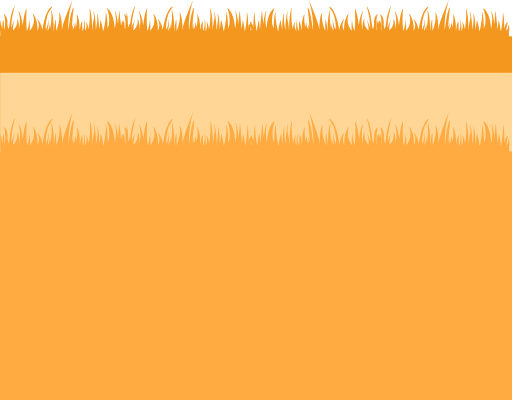
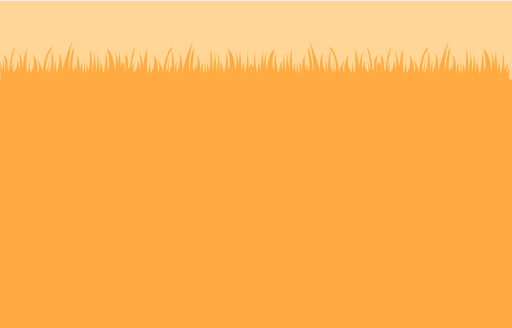
fixed ground for fall assets

diff --git a/src/constants/colors.ts b/src/constants/colors.ts
@@ -7,14 +7,9 @@ import fallSun from '../img/fall/Sun.svg';
 import ground from '../img/ground.png';
 import darkGround from '../img/dark/ground.png';
 import fallGround from '../img/fall/ground.png';
-// import fallGround from '../img/fall/trial2.png';
-// import fallGround from '../img/fall/trial1.svg';
 import barn from '../img/Barn.svg';
 import darkBarn from '../img/dark/Barn.svg';
-import fallBarn from '../img/fall/barn-fall.svg';
-import silo from '../img/Silo.svg';
-import darkSilo from '../img/dark/Silo.svg';
-import fallSilo from '../img/fall/Silo.svg';
+import fallBarn from '../img/fall/Barn.svg';
 import bean from '../img/bean-bold-logo.svg';
 import beanWhite from '../img/bean-white-logo.svg';
 
@@ -31,6 +26,9 @@ const normalTheme = {
     linkColor: '#3B3B3B',
     footer: '#000000',
     voteSelect: '#DAF2FF',
+    activeSection: 'rgb(14, 136, 55)',
+    navSelection: '#61dafb38',
+    menuColor: 'white',
     module: {
         foreground: '#FFFFFF',
         background: '#F5FAFF',
@@ -44,9 +42,9 @@ const normalTheme = {
     groundSize: 'contain',
     groundHeight: '53px',
     groundItemHeight: '51px',
+    groundGrass: 'none',
     footerPadding: '18px 15px 0 0',
     barn: barn,
-    silo: silo,
     bean: bean,
 };
 
@@ -70,6 +68,7 @@ export const spookyTheme = {
     linkColor: '#9F9F9F',
     footer: '#FF7F00',
     voteSelect: '#091F35',
+    // menuColor: '#FFDDAD',
     module: {
         foreground: '#B4DCEA',
         background: '#96CEE0',
@@ -84,7 +83,6 @@ export const spookyTheme = {
     groundHeight: '82px',
     footerPadding: '28px 15px 0 0',
     barn: darkBarn,
-    silo: darkSilo,
     bean: beanWhite,
 };
 
@@ -101,6 +99,9 @@ export const fallTheme = {
     footer: '#BE4417',
     // voteSelect: '#C29B71',
     voteSelect: '#FFDE97',
+    activeSection: '#BE4417',
+    navSelection: '#FFF3D1',
+    menuColor: '#FFDDAD',
     module: {
         foreground: '#FFE5AD',
         background: '#FFF3D1',
@@ -113,9 +114,9 @@ export const fallTheme = {
     ground: fallGround,
     groundSize: 'contain',
     groundHeight: '82px',
-    groundItemHeight: '69px',
+    groundItemHeight: '81px',
+    groundGrass: 'flex',
     barn: fallBarn,
-    silo: fallSilo,
     bean: beanWhite,
 };
 

diff --git a/src/components/About/Footer.tsx b/src/components/About/Footer.tsx
@@ -14,11 +14,14 @@ import { ReactComponent as OpenSeaIcon } from '../../img/opensea-icon.svg';
 // import reddit from '../../img/reddit-icon.svg'
 import { ReactComponent as UniswapIcon } from '../../img/uniswap-logo-black.svg';
 
+// halloween assets
 import PumpkinIcon from '../../img/dark/pumpkin-dark.svg';
 import TombstoneIcon from '../../img/dark/tombstone-dark.svg';
 
+// fall assets
 import TurkeyIcon from '../../img/fall/turkey.svg';
 import FenceIcon from '../../img/fall/fence-fall.svg';
+import fallGround from '../../img/fall/ground-grass.png';
 import { theme } from '../../constants';
 
 import {
@@ -51,6 +54,19 @@ export default function Footer(props) {
       position: 'fixed',
       bottom: '0px',
     },
+    topGround: {
+      backgroundColor: 'transparent',
+      backgroundImage: `url(${fallGround})`,
+      backgroundPosition: '0% 0%',
+      backgroundRepeat: 'repeat',
+      backgroundSize: theme.groundSize,
+      display: theme.groundGrass,
+      alignContent: 'space-around',
+      height: theme.groundHeight,
+      zIndex: -2,
+      position: 'fixed',
+      bottom: '14px',
+    },
   })();
   const width = window.innerWidth;
 
@@ -64,14 +80,6 @@ export default function Footer(props) {
   };
   const closeStyle = {
     padding: theme.footerPadding,
-  };
-  const siloStyle = {
-    bottom: theme.groundItemHeight,
-    height: '15vw',
-    left: 22,
-    minHeight: '155px',
-    position: 'fixed',
-    zIndex: -1,
   };
   const barnStyle = {
     bottom: theme.groundItemHeight,
@@ -150,7 +158,7 @@ export default function Footer(props) {
 
   return (
     <>
-      <img alt="Silo Icon" src={theme.silo} style={siloStyle} />
+      <Grid container className={classes.topGround} justifyContent="center" />
       <img alt="Barn Icon" src={theme.barn} style={barnStyle} />
       {spookyImg}
       {fallImg}

diff --git a/src/components/Navigation/NavigationBar.tsx b/src/components/Navigation/NavigationBar.tsx
@@ -59,10 +59,10 @@ export default function NavigationBar(props) {
       padding: '12px 18px',
     },
     activeLinkText: {
-      backgroundColor: '#61dafb38',
+      backgroundColor: theme.navSelection,
     },
     activeAboutLinkText: {
-      backgroundColor: '#61dafb38',
+      backgroundColor: theme.navSelection,
       borderRadius: '16px',
       padding: '12px 18px',
     },
@@ -122,7 +122,7 @@ export default function NavigationBar(props) {
 
   const linkItemStyle = (path) =>
     (path === 'governance'
-      ? { color: 'rgb(14, 136, 55)' }
+      ? { color: theme.activeSection }
       : null);
 
   const mobileNavigation = (
@@ -158,6 +158,7 @@ export default function NavigationBar(props) {
           <Grow
             {...TransitionProps}
             style={{
+              backgroundColor: theme.menuColor,
               transformOrigin:
                 placement === 'bottom' ? 'center top' : 'center bottom',
             }}

diff --git a/src/index.css b/src/index.css
@@ -17,10 +17,9 @@ html, body {height: 100%;}
 
 body {
   position: relative;
-  background-color: #FFF3D1 !important;
   /* background-color: #DAF2FF !important;  /* original theme */
   /* background-color: #096A9F !important;  /* halloween theme */
-  /* background-color: #FFF3D1 !important;  /* fall theme */
+  background-color: #FFF3D1 !important;  /* fall theme */
   margin: 0;
   font-family: 'Futura-PT', 'Futura-PT-Book';
   -webkit-font-smoothing: antialiased;

diff --git a/src/components/App/App.css b/src/components/App/App.css
@@ -40,7 +40,7 @@
   left: 0;
   width: 100%;
   height: 100%;
-  z-index: 0;
+  z-index: -10;
 }
 .BeanstalkMT[name="fall"] {
   background-repeat: no-repeat;
@@ -49,7 +49,7 @@
   position: fixed;
   width: 100%;
   height: 100%;
-  z-index: -2;
+  z-index: -100;
 }
 
 @media screen and (max-width: 599px) {
